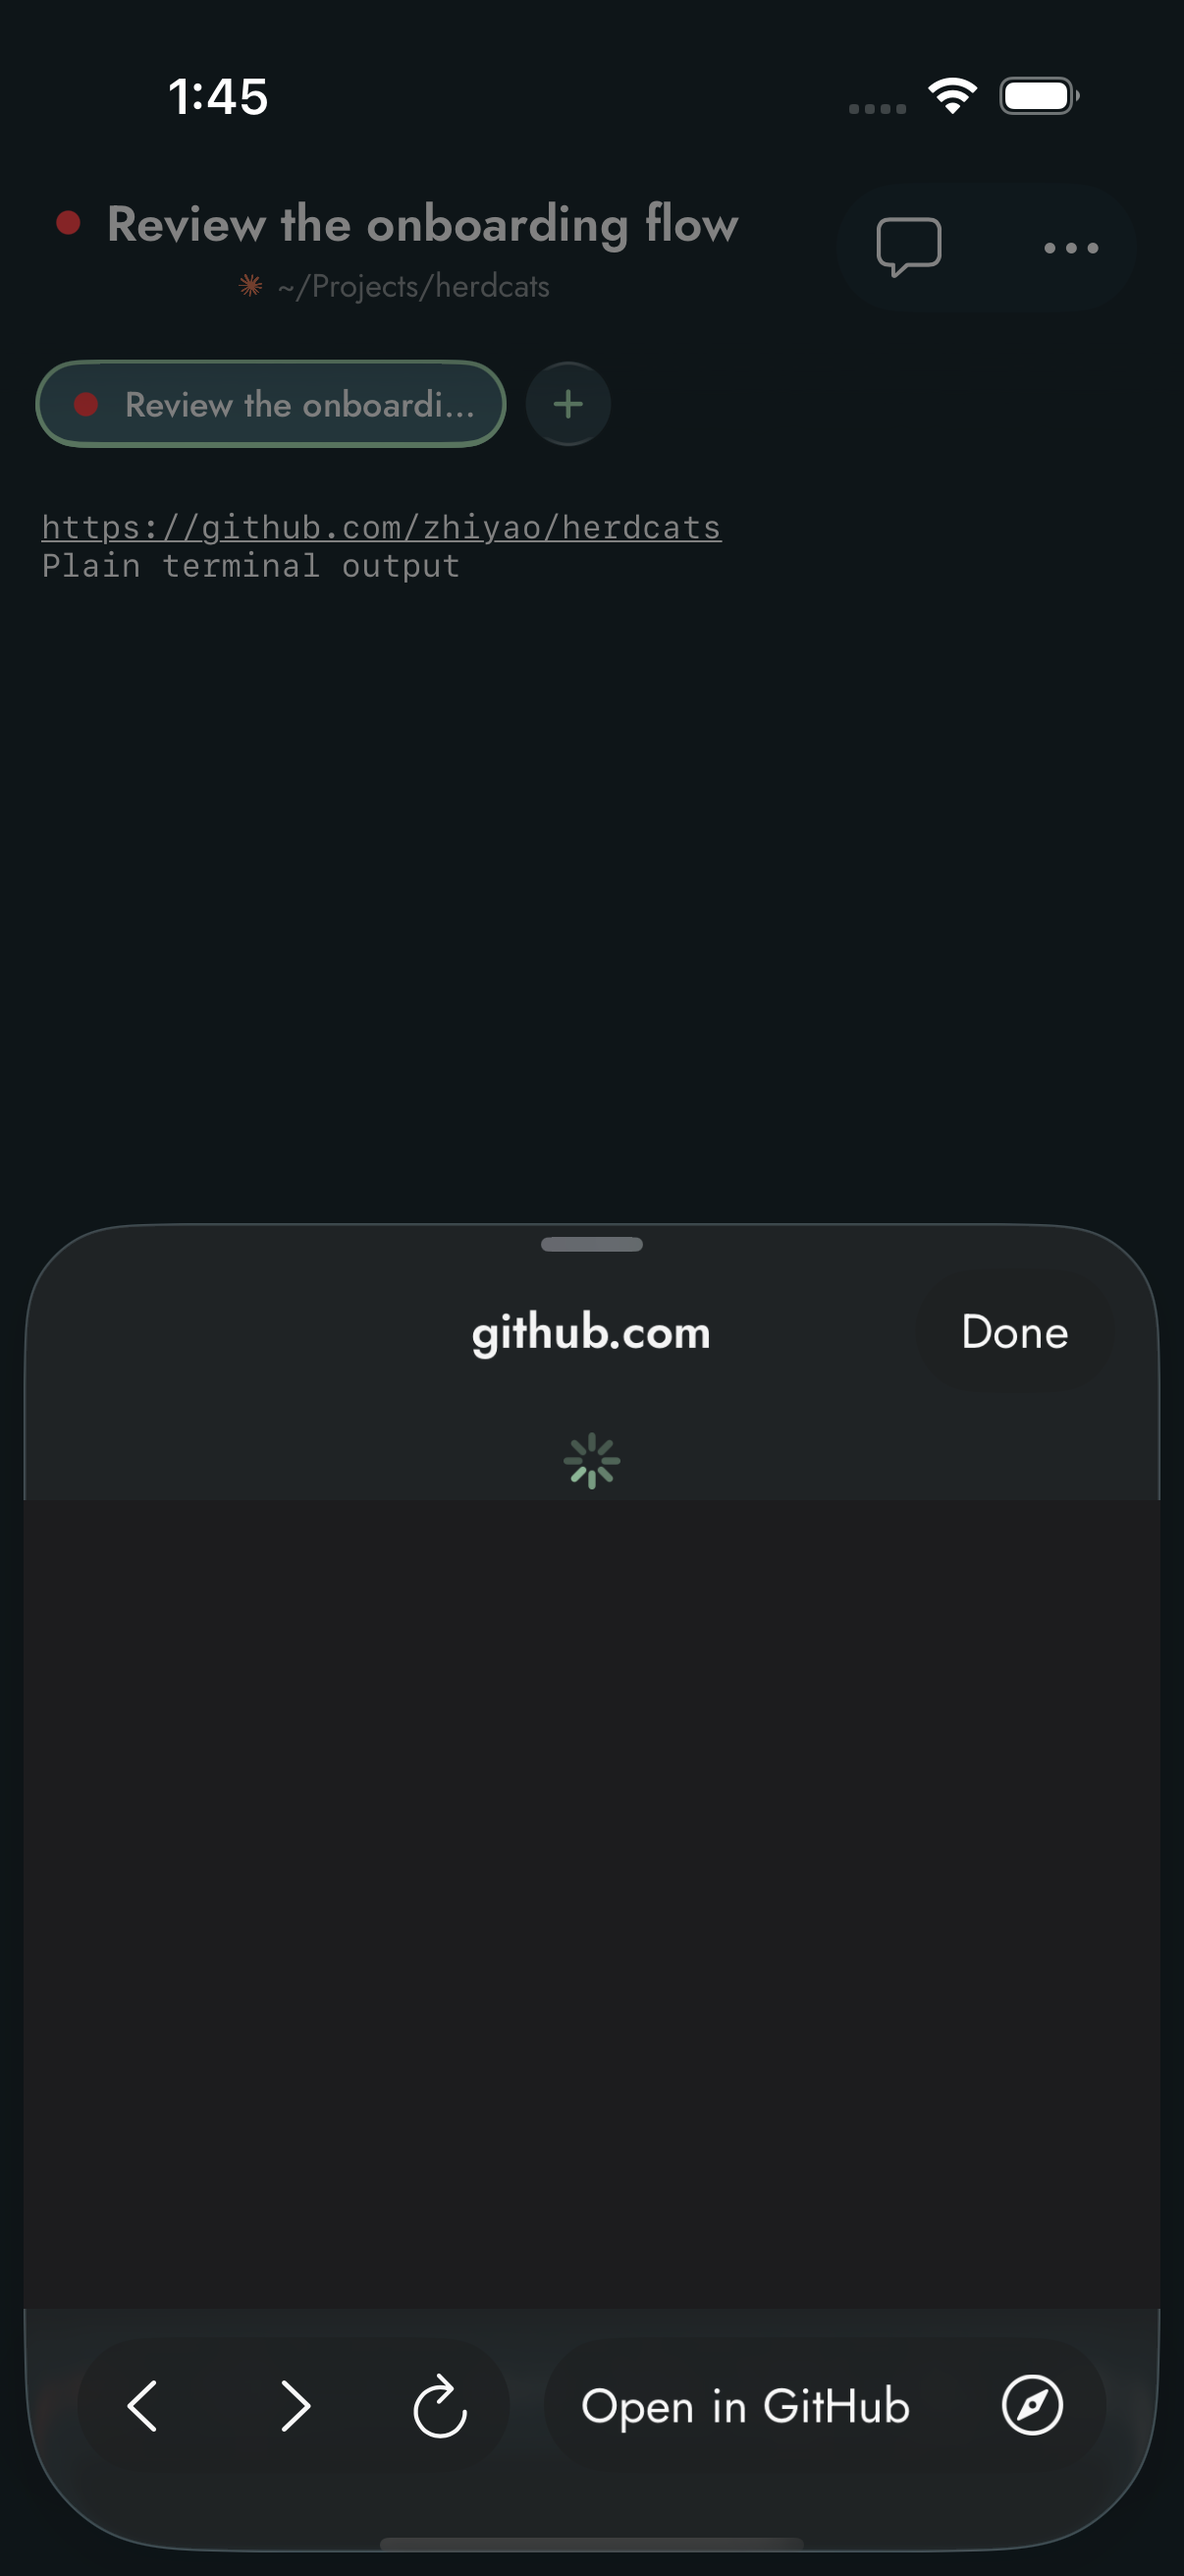
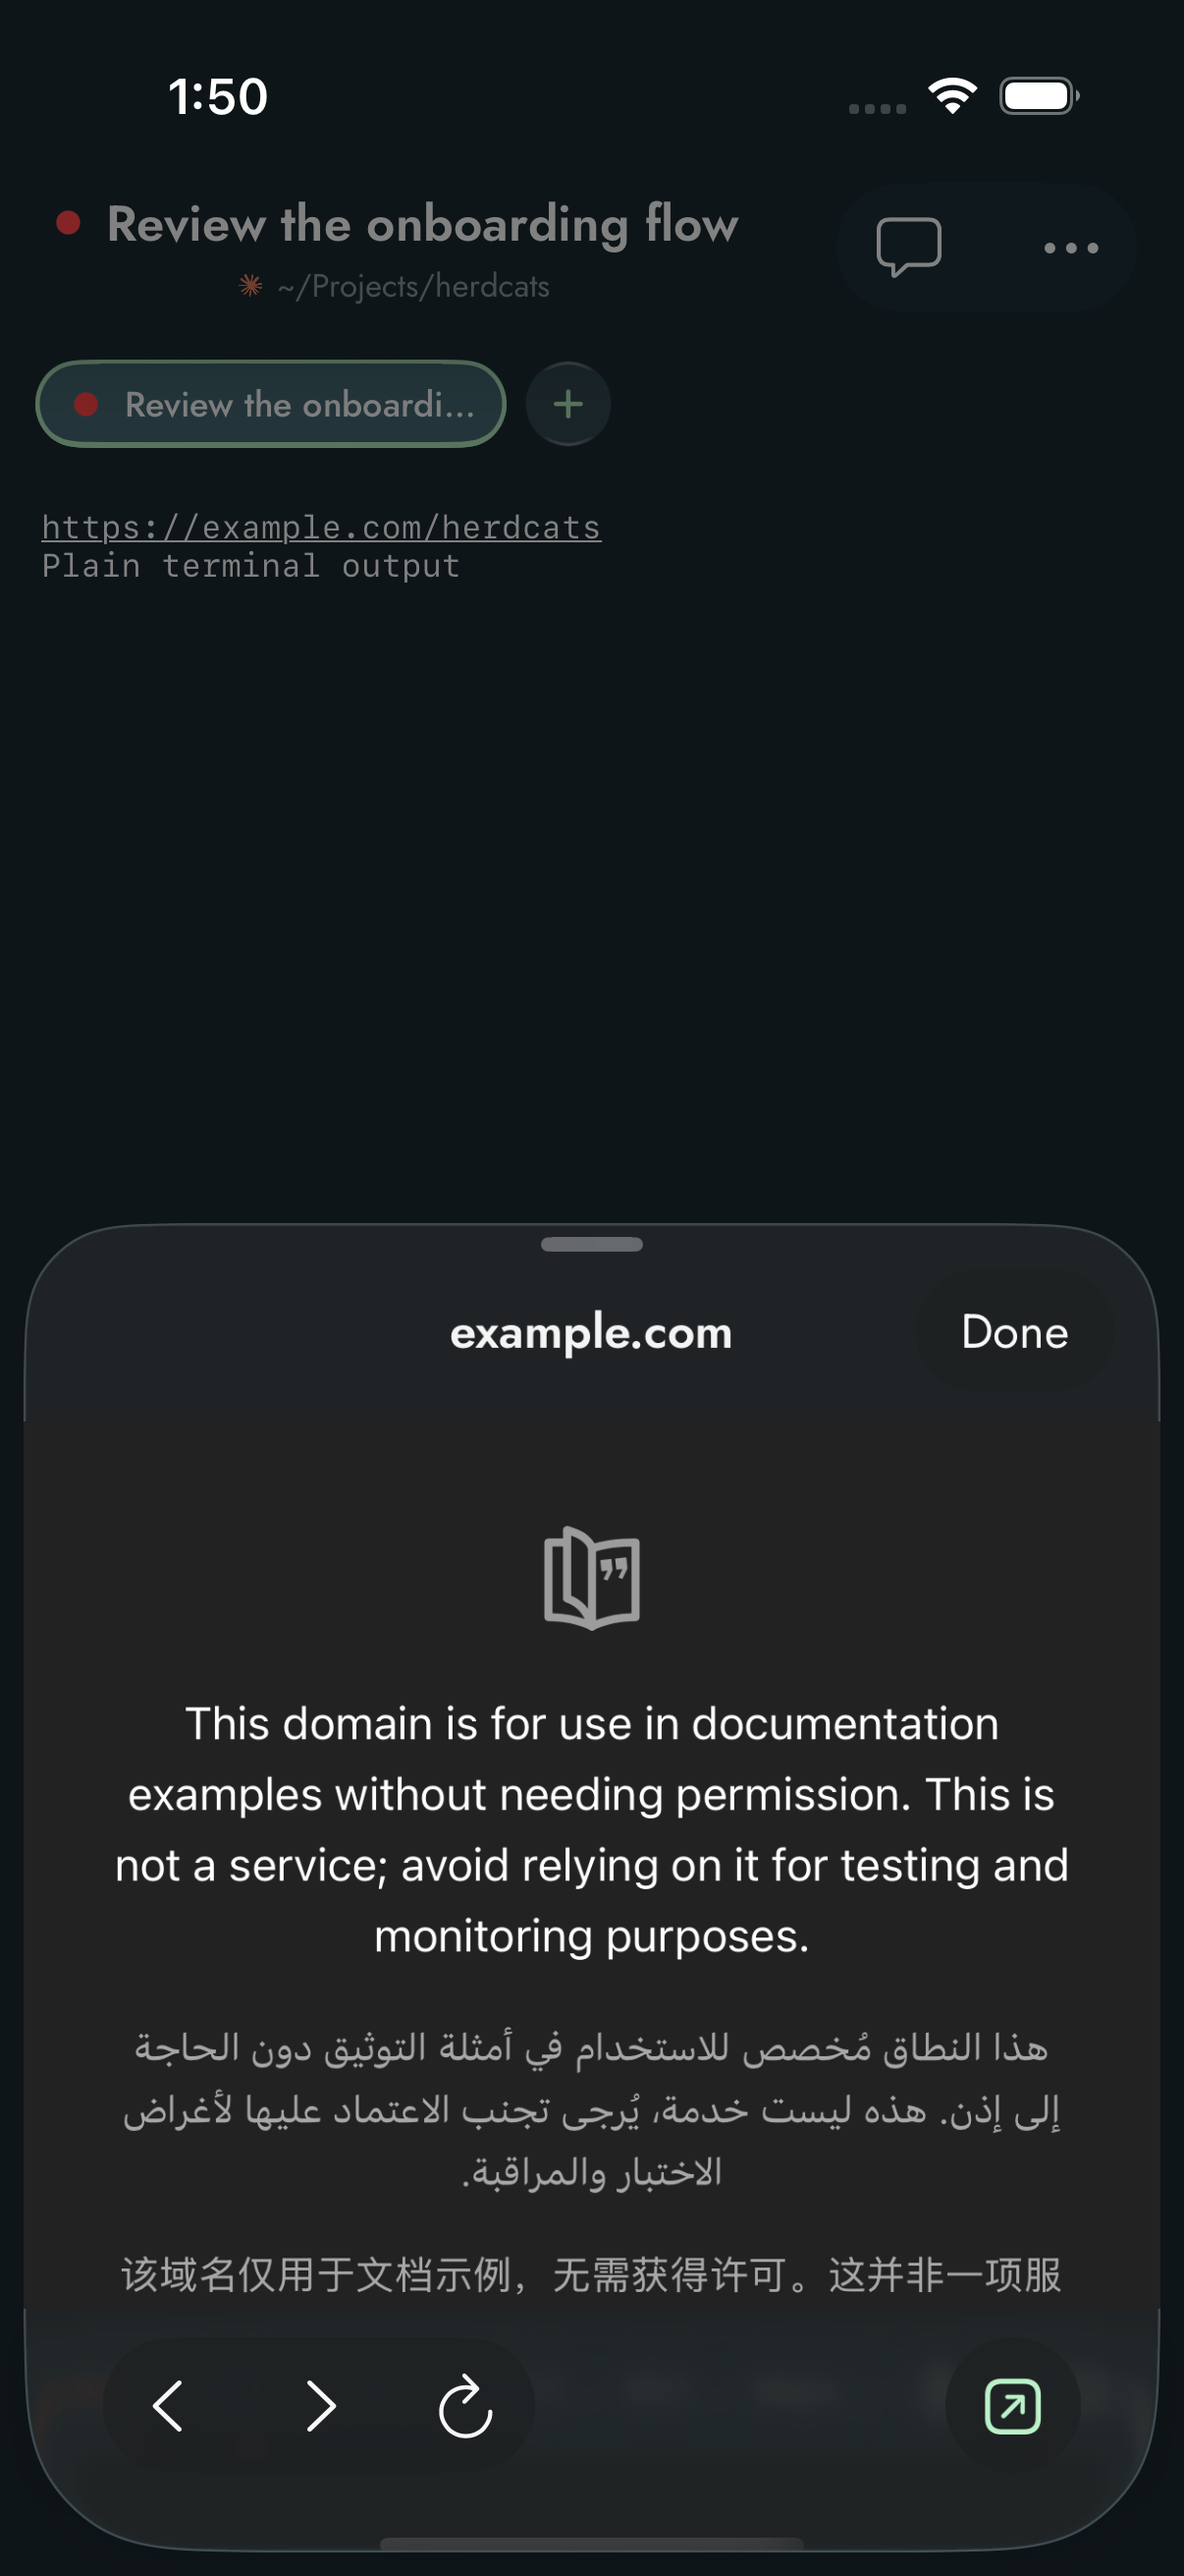
feat(ios): let iOS choose how to open terminal links

diff --git a/ios/Herdcats/Features/Shared/TerminalBrowserSheet.swift b/ios/Herdcats/Features/Shared/TerminalBrowserSheet.swift
@@ -10,10 +10,6 @@ enum TerminalBrowserPolicy {
     static func isWeb(_ url: URL) -> Bool {
         ["https", "http"].contains(url.scheme?.lowercased() ?? "") && url.host?.isEmpty == false
     }
-
-    static func isGitHub(_ url: URL) -> Bool {
-        isWeb(url) && ["github.com", "www.github.com"].contains(url.host?.lowercased() ?? "")
-    }
 }
 
 /// A focused browser for terminal links. App handoff always requires a toolbar tap.
@@ -50,26 +46,19 @@ struct TerminalBrowserSheet: View {
                     Button { browser.reload() } label: { Image(systemName: "arrow.clockwise") }
                         .accessibilityLabel("Reload")
                     Spacer()
-                    if TerminalBrowserPolicy.isGitHub(browser.url) {
-                        Button("Open in GitHub") {
-                            UIApplication.shared.open(browser.url, options: [.universalLinksOnly: true]) { opened in
-                                if !opened { handoffFailed = true }
-                            }
-                        }
-                        .accessibilityIdentifier("terminal-browser-open-github")
-                    }
                     Button {
                         UIApplication.shared.open(browser.url) { opened in
                             if !opened { handoffFailed = true }
                         }
-                    } label: { Image(systemName: "safari") }
-                    .accessibilityLabel("Open in Browser")
+                    } label: { Label("Open", systemImage: "arrow.up.forward.app") }
+                    .accessibilityIdentifier("terminal-browser-open")
+                    .accessibilityHint("Open this page in the app or browser chosen by iOS.")
                 }
             }
             .alert("Couldn’t open this link", isPresented: $handoffFailed) {
                 Button("OK", role: .cancel) {}
             } message: {
-                Text("The app may not be installed or may not support this page. You can keep browsing here or use Open in Browser.")
+                Text("iOS couldn’t open this page in another app or browser. You can keep browsing here.")
             }
         }
     }

diff --git a/ios/HerdcatsUITests/HerdcatsUITests+Panes.swift b/ios/HerdcatsUITests/HerdcatsUITests+Panes.swift
@@ -6,7 +6,7 @@ extension HerdcatsUITests {
     func testTerminalLinkTapOpensBrowserDrawer() {
         let app = XCUIApplication()
         app.launchArguments = ["-hc.screenshots", "-hc.screen", "pane", "-hc.terminal-links",
-                               "-hc.terminal-github-link", "-paneShowComposeByDefault", "NO"]
+                               "-paneShowComposeByDefault", "NO"]
         app.launch()
         let terminal = app.buttons["timeline-open-terminal"]
         if terminal.waitForExistence(timeout: 3) { terminal.tap() }
@@ -15,7 +15,7 @@ extension HerdcatsUITests {
         output.coordinate(withNormalizedOffset: .zero).withOffset(CGVector(dx: 70, dy: 8)).tap()
         let done = app.buttons["terminal-browser-done"]
         XCTAssertTrue(done.waitForExistence(timeout: 5), "A normal link tap should open the browser drawer")
-        XCTAssertTrue(app.buttons["terminal-browser-open-github"].exists)
+        XCTAssertTrue(app.buttons["terminal-browser-open"].exists)
         XCTAssertFalse(app.keyboards.firstMatch.exists)
         let screenshot = XCTAttachment(screenshot: app.screenshot())
         screenshot.name = "Terminal browser drawer"

diff --git a/ios/HerdcatsTests/HerdcatsTests+PanePreferences.swift b/ios/HerdcatsTests/HerdcatsTests+PanePreferences.swift
@@ -9,10 +9,10 @@ import Testing
 
 @Suite("Terminal output links")
 struct PaneOutputLinkTests {
-    @Test func githubHandoffUsesOnlyExactWebHosts() {
-        #expect(TerminalBrowserPolicy.isGitHub(URL(string: "https://github.com/zhiyao/herdcats")!))
-        #expect(!TerminalBrowserPolicy.isGitHub(URL(string: "https://github.com.evil.test/repo")!))
-        #expect(!TerminalBrowserPolicy.isGitHub(URL(string: "https://example.com/github.com")!))
+    @Test func browserAcceptsWebURLsFromAnyHost() {
+        #expect(TerminalBrowserPolicy.isWeb(URL(string: "https://github.com/zhiyao/herdcats")!))
+        #expect(TerminalBrowserPolicy.isWeb(URL(string: "https://example.com/page")!))
+        #expect(TerminalBrowserPolicy.isWeb(URL(string: "http://localhost:3000")!))
         #expect(!TerminalBrowserPolicy.isWeb(URL(string: "javascript:alert(1)")!))
         #expect(!TerminalBrowserPolicy.isWeb(URL(string: "file:///tmp/test")!))
     }

diff --git a/ios/Herdcats/Support/ScreenshotFixtures.swift b/ios/Herdcats/Support/ScreenshotFixtures.swift
@@ -107,9 +107,6 @@ enum ScreenshotFixtures {
     static var terminal: String {
         if ProcessInfo.processInfo.arguments.contains("-hc.empty-terminal-output") { return "" }
         if ProcessInfo.processInfo.arguments.contains("-hc.terminal-links") {
-            if ProcessInfo.processInfo.arguments.contains("-hc.terminal-github-link") {
-                return "https://github.com/zhiyao/herdcats\nPlain terminal output"
-            }
             return "https://example.com/herdcats\nPlain terminal output"
         }
         if ProcessInfo.processInfo.arguments.contains("-hc.long-terminal-selection") {

diff --git a/README.md b/README.md
@@ -62,8 +62,8 @@ start with the Live toolbar. Compose supports spelling correction and keyboard
 suggestions; Live terminal input stays literal. Your saved preference is respected.
 
 Web URLs in terminal output are underlined. Tap a URL to browse in a drawer with
-back, forward, and reload controls. GitHub pages offer **Open in GitHub** to hand
-the current page to the installed iOS app. **Open in Browser** opens externally.
+back, forward, and reload controls. **Open** hands the current page to iOS, which
+chooses the associated app or default browser.
 Long-press a URL for the native link menu and Copy Link. Tapping plain output still focuses live input.
 Links open on your iPhone; `localhost` addresses refer to the phone, not the SSH host.
 
